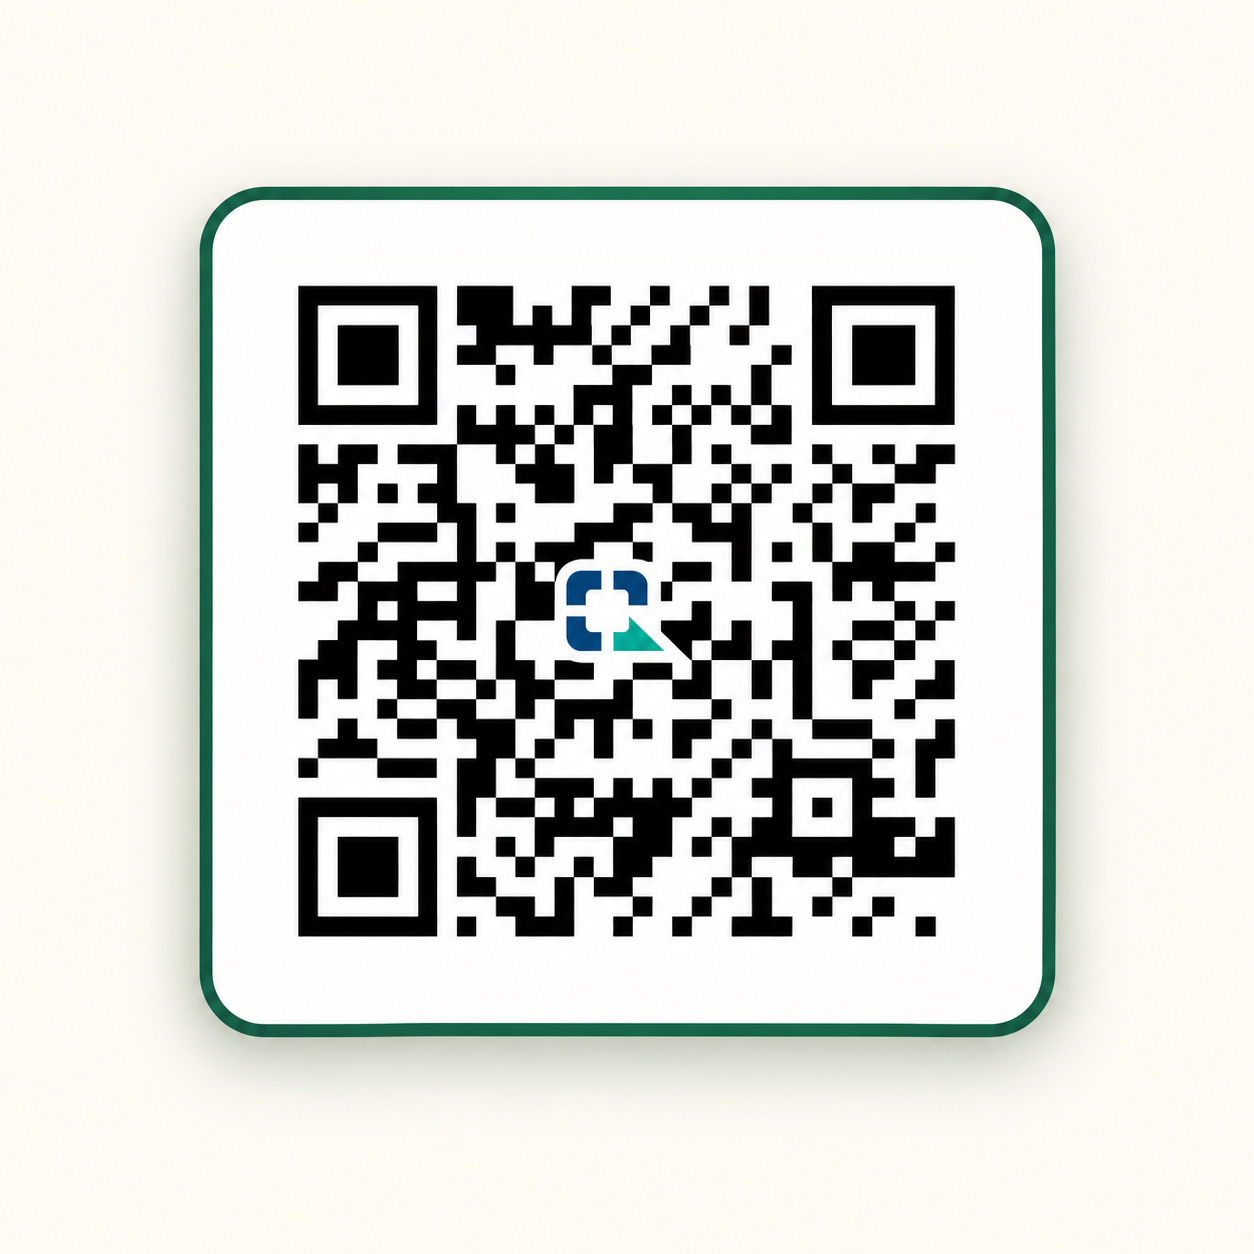
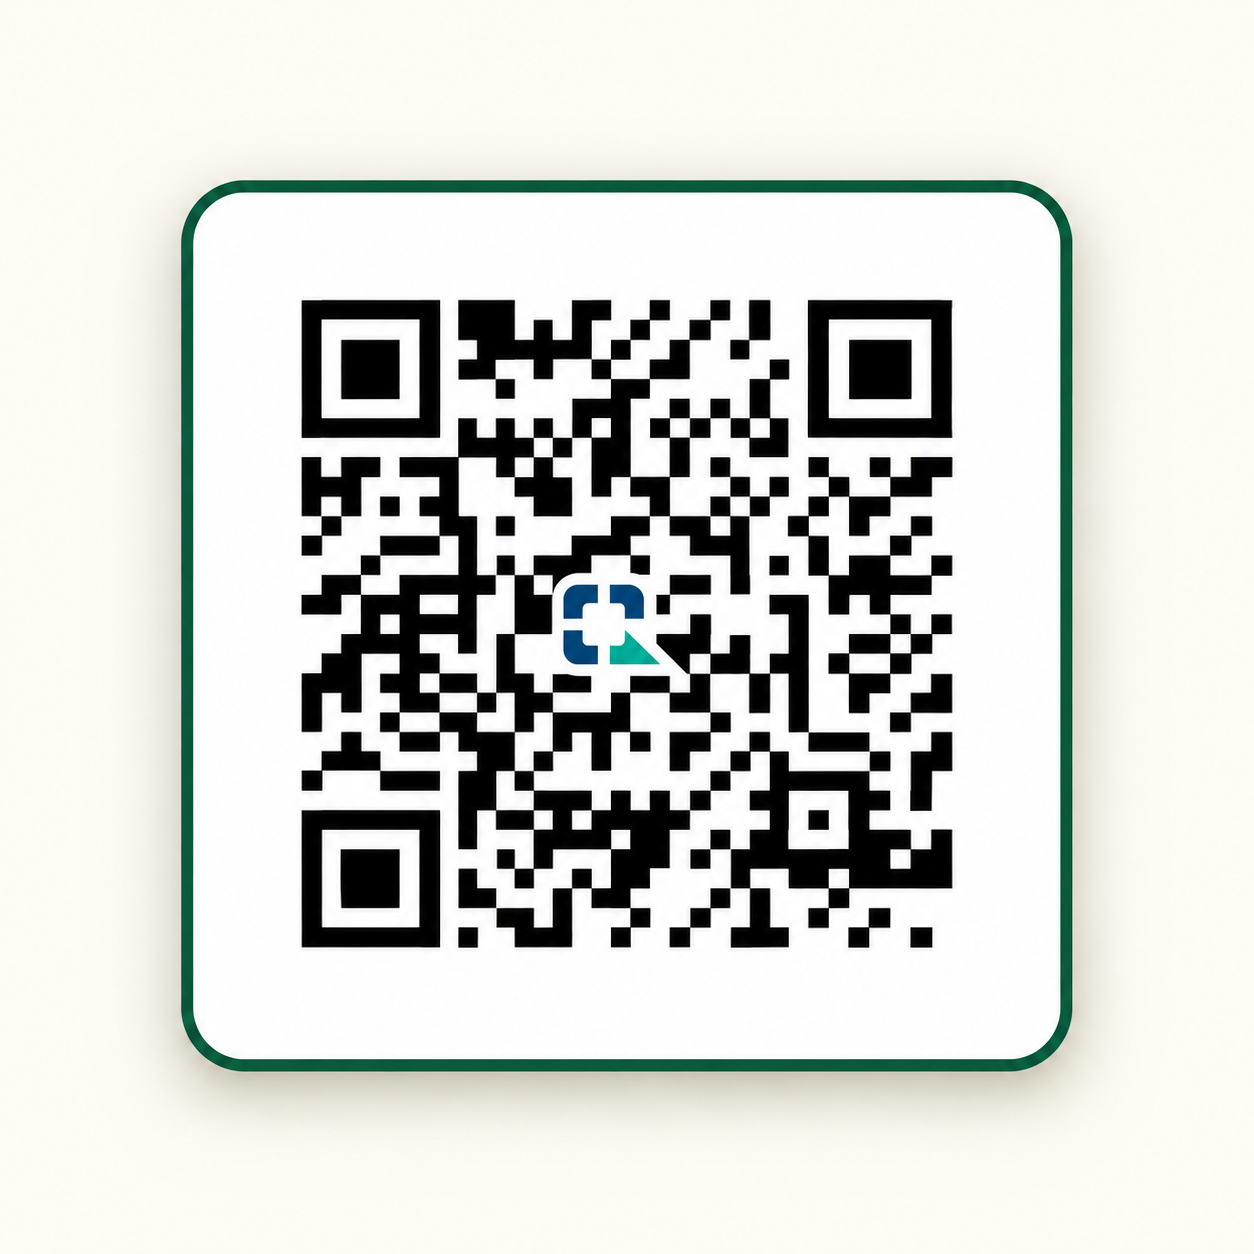
Add header support dialog for Issue 30

Changed region(s): [[0.2177, 0.2177, 0.7775, 0.7775], [0.1244, 0.1244, 0.8708, 0.9019]]

diff --git a/tests/test_support_view.py b/tests/test_support_view.py
@@ -3,40 +3,113 @@ from __future__ import annotations
 from contextlib import nullcontext
 from pathlib import Path
 
+from tmc_processor.ui import app_shell
 from tmc_processor.ui.components import support
-from tmc_processor.ui.app_shell import (
-    APP_SUPPORT_VIEW,
-    APP_VIEW_STATE_KEY,
-    get_app_view,
-    set_app_view,
-)
 from tmc_processor.ui.components.support import resolve_support_qr_path
 
 
-def test_support_navigation_preserves_the_active_workflow_and_session_state() -> None:
-    state: dict[str, object] = {
+APPROVED_SUPPORT_TEXT = """TMC Processor เปิดให้ใช้งานฟรีครับ
+
+ถ้าโปรแกรมนี้ช่วยลดเวลาจัดการข้อมูล TMC และงาน Excel ของคุณได้
+และอยากช่วยสนับสนุนการพัฒนาต่อ
+สามารถเลี้ยงชาเย็นคนทำโปรแกรมได้ตามสะดวกครับ
+
+การสนับสนุนเป็นความสมัครใจ และไม่มีผลต่อฟังก์ชันการใช้งานของโปรแกรม"""
+
+
+class RecordingHeader:
+    def __init__(self, *, clicked: bool) -> None:
+        self.clicked = clicked
+        self.buttons: list[tuple[str, dict[str, object]]] = []
+        self.markdown_values: list[str] = []
+        self.captions: list[str] = []
+        self.session_state: dict[str, object] = {}
+
+    def columns(self, ratios: list[float], **_kwargs):
+        return (nullcontext(), nullcontext())
+
+    def markdown(self, value: str, **_kwargs) -> None:
+        self.markdown_values.append(value)
+
+    def caption(self, value: str) -> None:
+        self.captions.append(value)
+
+    def button(self, label: str, **kwargs) -> bool:
+        self.buttons.append((label, kwargs))
+        return self.clicked
+
+
+def test_header_support_button_opens_dialog_without_changing_workflow_state(monkeypatch) -> None:
+    state = {
         "active_workflow_tab": "Review",
         "work_mode": "ประมวลผลหลายไฟล์",
+        "tmc_batch_source_uploads": [object(), object()],
         "mapping_table": [{"movement_code": "N1"}],
+        "tmc_batch_confirmed_peaks": {"file-1": {"am": "07:00-08:00"}},
         "tmc_batch_analysis_result": object(),
         "tmc_batch_export_result": object(),
     }
+    header = RecordingHeader(clicked=True)
+    header.session_state = state
     original_state = dict(state)
+    opened: list[bool] = []
+    monkeypatch.setattr(app_shell, "st", header)
+    monkeypatch.setattr(support, "open_support_dialog", lambda: opened.append(True))
 
-    assert set_app_view(APP_SUPPORT_VIEW, state=state) == APP_SUPPORT_VIEW
-    assert get_app_view(state=state) == APP_SUPPORT_VIEW
-    assert state[APP_VIEW_STATE_KEY] == APP_SUPPORT_VIEW
+    app_shell._render_app_header()
 
-    set_app_view("TMC Processor", state=state)
-
-    assert state["active_workflow_tab"] == original_state["active_workflow_tab"]
-    assert state["work_mode"] == original_state["work_mode"]
-    assert state["mapping_table"] == original_state["mapping_table"]
-    assert state["tmc_batch_analysis_result"] is original_state["tmc_batch_analysis_result"]
-    assert state["tmc_batch_export_result"] is original_state["tmc_batch_export_result"]
+    assert header.buttons == [("เลี้ยงชาเย็น", {"key": "open_support_dialog", "type": "secondary"})]
+    assert opened == [True]
+    assert header.session_state == original_state
+    assert header.session_state["tmc_batch_analysis_result"] is original_state["tmc_batch_analysis_result"]
+    assert header.session_state["tmc_batch_export_result"] is original_state["tmc_batch_export_result"]
 
 
-def test_support_qr_resolver_uses_the_supplied_asset_and_handles_missing_files(tmp_path: Path) -> None:
+def test_header_keeps_privacy_disclosure_outside_support_dialog(monkeypatch) -> None:
+    header = RecordingHeader(clicked=False)
+    monkeypatch.setattr(app_shell, "st", header)
+    monkeypatch.setattr(support, "open_support_dialog", lambda: None)
+
+    app_shell._render_app_header()
+
+    assert len(header.captions) == 1
+    assert "ไม่มีการบันทึกไฟล์สมุดงานสำรวจ" in header.captions[0]
+    assert "ที่เก็บโครงการแบบถาวร" in header.captions[0]
+
+
+def test_support_dialog_renders_exact_approved_text_and_authoritative_qr(monkeypatch) -> None:
+    class RecordingView:
+        def __init__(self) -> None:
+            self.markdown_values: list[str] = []
+            self.captions: list[str] = []
+            self.images: list[tuple[str, int]] = []
+
+        def markdown(self, value: str) -> None:
+            self.markdown_values.append(value)
+
+        def caption(self, value: str) -> None:
+            self.captions.append(value)
+
+        def image(self, value: str, *, width: int) -> None:
+            self.images.append((value, width))
+
+        def columns(self, _ratios: list[int], *, gap: str):
+            assert gap == "small"
+            return (nullcontext(), nullcontext(), nullcontext())
+
+    view = RecordingView()
+    monkeypatch.setattr(support, "st", view)
+    expected_qr = Path("assets/support_qr.png")
+    monkeypatch.setattr(support, "SUPPORT_QR_PATH", expected_qr)
+
+    support.render_support_view()
+
+    assert view.markdown_values == [APPROVED_SUPPORT_TEXT]
+    assert view.images == [(str(expected_qr), 220)]
+    assert view.captions == []
+
+
+def test_support_qr_resolver_uses_supplied_asset_and_cleanly_handles_missing_files(tmp_path: Path) -> None:
     supplied_qr = tmp_path / "support_qr.png"
     supplied_qr.write_bytes(b"authoritative qr bytes")
 
@@ -51,29 +124,20 @@ def test_support_qr_resolver_finds_the_repository_asset() -> None:
     assert resolve_support_qr_path() == expected
 
 
-def test_support_view_shows_a_clean_fallback_without_a_qr(tmp_path: Path, monkeypatch) -> None:
+def test_support_dialog_shows_a_clean_fallback_without_a_qr(tmp_path: Path, monkeypatch) -> None:
     class RecordingView:
         def __init__(self) -> None:
             self.captions: list[str] = []
             self.images: list[str] = []
 
-        def title(self, value: str) -> None:
-            pass
-
-        def markdown(self, value: str) -> None:
+        def markdown(self, _value: str) -> None:
             pass
 
         def caption(self, value: str) -> None:
             self.captions.append(value)
 
-        def image(self, value: str, *, width: int) -> None:
-            self.images.append(value)
-
-        def container(self, *, border: bool):
-            return nullcontext()
-
-        def columns(self, ratios: list[float], *, gap: str):
-            return (nullcontext(), nullcontext())
+        def columns(self, *_args, **_kwargs):
+            raise AssertionError("the QR layout should not render without an asset")
 
     view = RecordingView()
     monkeypatch.setattr(support, "st", view)
@@ -82,4 +146,13 @@ def test_support_view_shows_a_clean_fallback_without_a_qr(tmp_path: Path, monkey
     support.render_support_view()
 
     assert view.images == []
-    assert any("ไม่มีไฟล์ QR" in caption for caption in view.captions)
+    assert view.captions == ["ไม่มีไฟล์ QR สำหรับแสดงในสภาพแวดล้อมนี้"]
+
+
+def test_support_dialog_uses_streamlit_compact_dialog(monkeypatch) -> None:
+    opened: list[bool] = []
+    monkeypatch.setattr(support, "_support_dialog", lambda: opened.append(True))
+
+    support.open_support_dialog()
+
+    assert opened == [True]

diff --git a/src/tmc_processor/ui/app_shell.py b/src/tmc_processor/ui/app_shell.py
@@ -200,7 +200,7 @@ from tmc_processor.application.services import (
 )
 from tmc_processor.ui.components.peak import render_peak_card as render_peak_card_component
 from tmc_processor.ui.components.export import operator_report_label
-from tmc_processor.ui.components.support import render_support_view
+from tmc_processor.ui.components import support
 from tmc_processor.ui.components.qc import render_qc_summary as render_qc_summary_component
 from tmc_processor.ui.components.status import render_readiness_checklist as render_readiness_checklist_component
 from tmc_processor.ui.workflows import (
@@ -282,9 +282,6 @@ ANALYZE_SETUP_FIELDS = (
 WORKFLOW_STATE_KEY = "tmc_workflow_state"
 WORKFLOW_SINGLE_MODE = "single"
 WORKFLOW_BATCH_MODE = "batch"
-APP_VIEW_STATE_KEY = "tmc_app_view"
-APP_WORKFLOW_VIEW = "TMC Processor"
-APP_SUPPORT_VIEW = "เลี้ยงชาเย็นคนทำโปรแกรม"
 SINGLE_SOURCE_UPLOAD_STATE_KEY = "tmc_single_source_upload"
 BATCH_SOURCE_UPLOAD_STATE_KEY = "tmc_batch_source_uploads"
 BATCH_MAPPING_PRESET_UPLOAD_STATE_KEY = "tmc_batch_mapping_preset_upload"
@@ -924,20 +921,6 @@ def set_active_tab(tab_name: str) -> str:
 
 def get_active_tab() -> str:
     return set_active_tab(str(st.session_state.get("active_workflow_tab") or DEFAULT_WORKFLOW_TAB))
-
-
-def set_app_view(view: object, state: MutableMapping[str, object] | None = None) -> str:
-    """Select the secondary app surface without changing engineering workflow state."""
-
-    state = st.session_state if state is None else state
-    selected = APP_SUPPORT_VIEW if str(view or "") == APP_SUPPORT_VIEW else APP_WORKFLOW_VIEW
-    state[APP_VIEW_STATE_KEY] = selected
-    return selected
-
-
-def get_app_view(state: MutableMapping[str, object] | None = None) -> str:
-    state = st.session_state if state is None else state
-    return set_app_view(state.get(APP_VIEW_STATE_KEY), state)
 
 
 def workflow_stages_for_mode(mode: str) -> list[str]:
@@ -1729,8 +1712,30 @@ def _inject_global_css() -> None:
         }
         .tmc-header {
             padding: var(--tmc-space-1) 0 var(--tmc-space-3) 0;
+            margin-bottom: 0;
+        }
+        .tmc-header-divider {
             border-bottom: 1px solid var(--tmc-divider);
-            margin-bottom: var(--tmc-space-3);
+            margin: 0 0 var(--tmc-space-2) 0;
+        }
+        div[class*="st-key-open_support_dialog"] {
+            display: flex;
+            justify-content: flex-end;
+        }
+        div[class*="st-key-open_support_dialog"] button {
+            min-height: 2rem;
+            max-width: 8.5rem;
+            padding: 0.35rem 0.65rem;
+            border: 1px solid var(--tmc-primary) !important;
+            background: transparent !important;
+            color: var(--tmc-primary) !important;
+            white-space: nowrap;
+            box-shadow: none !important;
+        }
+        div[class*="st-key-open_support_dialog"] button:hover {
+            border-color: var(--tmc-primary-hover) !important;
+            background: var(--tmc-success-soft) !important;
+            color: var(--tmc-primary-hover) !important;
         }
         .tmc-title {
             color: var(--tmc-text);
@@ -2618,6 +2623,22 @@ def _inject_global_css() -> None:
             .tmc-title {
                 font-size: 1.55rem;
             }
+            div[data-testid="stHorizontalBlock"]:has(div[class*="st-key-open_support_dialog"]) {
+                flex-direction: row !important;
+                flex-wrap: nowrap !important;
+                align-items: flex-start !important;
+            }
+            div[data-testid="stHorizontalBlock"]:has(div[class*="st-key-open_support_dialog"]) > div:first-child {
+                flex: 1 1 0 !important;
+                width: auto !important;
+                min-width: 0;
+            }
+            div[data-testid="stHorizontalBlock"]:has(div[class*="st-key-open_support_dialog"]) > div:last-child {
+                flex: 0 0 6.5rem !important;
+                width: 6.5rem !important;
+                min-width: 0 !important;
+                max-width: 6.5rem !important;
+            }
         }
         </style>
         """,
@@ -2837,15 +2858,22 @@ def _render_sidebar_section(label: str) -> None:
 
 
 def _render_app_header() -> None:
-    st.markdown(
-        """
-        <div class="tmc-header">
-            <h1 class="tmc-title">TMC Processor</h1>
-            <div class="tmc-subtitle">ประมวลผลข้อมูล Turning Movement Count และจัดทำรายงาน Excel</div>
-        </div>
-        """,
-        unsafe_allow_html=True,
-    )
+    title_column, action_column = st.columns([0.84, 0.16], gap="small", vertical_alignment="center")
+    with title_column:
+        st.markdown(
+            """
+            <div class="tmc-header">
+                <h1 class="tmc-title">TMC Processor</h1>
+                <div class="tmc-subtitle">ประมวลผลข้อมูล Turning Movement Count และจัดทำรายงาน Excel</div>
+            </div>
+            """,
+            unsafe_allow_html=True,
+        )
+    with action_column:
+        if st.button("เลี้ยงชาเย็น", key="open_support_dialog", type="secondary"):
+            support.open_support_dialog()
+    st.markdown('<div class="tmc-header-divider"></div>', unsafe_allow_html=True)
+    st.caption(support.PRIVACY_DISCLOSURE)
 
 
 def _topbar_item(label: str, value: str, note: str = "") -> str:
@@ -5512,17 +5540,6 @@ def _run_streamlit_app() -> None:
             label_visibility="collapsed",
         )
         is_single_file_mode = work_mode == "ประมวลผลไฟล์เดียว"
-        get_app_view()
-        app_view = st.radio(
-            "เลือกหน้า",
-            options=[APP_WORKFLOW_VIEW, APP_SUPPORT_VIEW],
-            key=APP_VIEW_STATE_KEY,
-        )
-
-    if app_view == APP_SUPPORT_VIEW:
-        _render_app_header()
-        render_support_view()
-        return
 
     with st.sidebar:
         _render_sidebar_section("โครงการ")

diff --git a/src/tmc_processor/ui/components/support.py b/src/tmc_processor/ui/components/support.py
@@ -1,4 +1,4 @@
-"""Secondary support surface, kept outside the canonical engineering stages."""
+"""Compact support dialog, kept outside the canonical engineering stages."""
 
 from __future__ import annotations
 
@@ -8,6 +8,18 @@ import streamlit as st
 
 
 SUPPORT_TITLE = "เลี้ยงชาเย็นคนทำโปรแกรม"
+SUPPORT_BODY = """TMC Processor เปิดให้ใช้งานฟรีครับ
+
+ถ้าโปรแกรมนี้ช่วยลดเวลาจัดการข้อมูล TMC และงาน Excel ของคุณได้
+และอยากช่วยสนับสนุนการพัฒนาต่อ
+สามารถเลี้ยงชาเย็นคนทำโปรแกรมได้ตามสะดวกครับ
+
+การสนับสนุนเป็นความสมัครใจ และไม่มีผลต่อฟังก์ชันการใช้งานของโปรแกรม"""
+PRIVACY_DISCLOSURE = (
+    "ในระยะนี้ TMC Processor ไม่มีการบันทึกไฟล์สมุดงานสำรวจที่อัปโหลดลงฐานข้อมูล "
+    "หรือที่เก็บโครงการแบบถาวรโดยเจตนา ระหว่างใช้งาน ข้อมูลอาจอยู่ในหน่วยความจำของ "
+    "session และการส่งออกอาจสร้างไฟล์ชั่วคราว ซึ่งระบบจะลบเมื่อจบการส่งออก"
+)
 SUPPORT_QR_PATH = Path(__file__).resolve().parents[4] / "assets" / "support_qr.png"
 
 
@@ -19,27 +31,24 @@ def resolve_support_qr_path(asset_path: Path | None = None) -> Path | None:
 
 
 def render_support_view() -> None:
-    st.title(SUPPORT_TITLE)
-    st.markdown("TMC Processor เปิดให้ใช้งานฟรี")
+    """Render the compact support dialog contents without modifying session state."""
 
-    with st.container(border=True):
-        text_column, qr_column = st.columns([1.5, 1], gap="large")
-        with text_column:
-            st.markdown(
-                "ถ้าโปรแกรมนี้ช่วยลดเวลาจัดการข้อมูล TMC และงาน Excel ของคุณได้ "
-                "และอยากช่วยสนับสนุนการพัฒนาต่อ จะเลี้ยงชาเย็นคนทำโปรแกรมสักแก้วก็ได้"
-            )
-            st.markdown("สนับสนุนหรือไม่ก็ใช้งานได้ครบทุกฟังก์ชันเหมือนเดิม")
-        with qr_column:
-            qr_path = resolve_support_qr_path()
-            if qr_path is None:
-                st.caption("ไม่มีไฟล์ QR สำหรับแสดงในสภาพแวดล้อมนี้")
-            else:
-                st.image(str(qr_path), width=280)
-                st.markdown("**สแกน QR ได้ตามสะดวกเลย**")
+    st.markdown(SUPPORT_BODY)
+    qr_path = resolve_support_qr_path()
+    if qr_path is None:
+        st.caption("ไม่มีไฟล์ QR สำหรับแสดงในสภาพแวดล้อมนี้")
+    else:
+        _left, center, _right = st.columns([1, 2, 1], gap="small")
+        with center:
+            st.image(str(qr_path), width=220)
 
-    st.caption(
-        "ในระยะนี้ TMC Processor ไม่มีการบันทึกไฟล์สมุดงานสำรวจที่อัปโหลดลงฐานข้อมูล "
-        "หรือที่เก็บโครงการแบบถาวรโดยเจตนา ระหว่างใช้งาน ข้อมูลอาจอยู่ในหน่วยความจำของ "
-        "session และการส่งออกอาจสร้างไฟล์ชั่วคราว ซึ่งระบบจะลบเมื่อจบการส่งออก"
-    )
+
+@st.dialog(SUPPORT_TITLE, width="small")
+def _support_dialog() -> None:
+    render_support_view()
+
+
+def open_support_dialog() -> None:
+    """Open the support dialog without routing away from the active workflow."""
+
+    _support_dialog()
